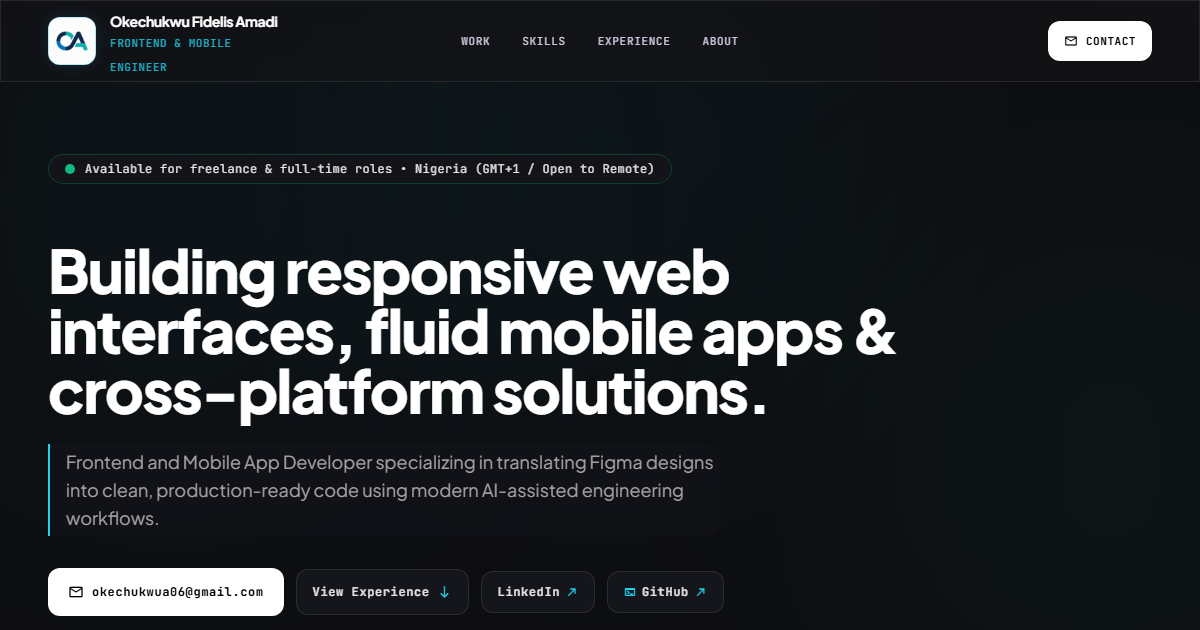
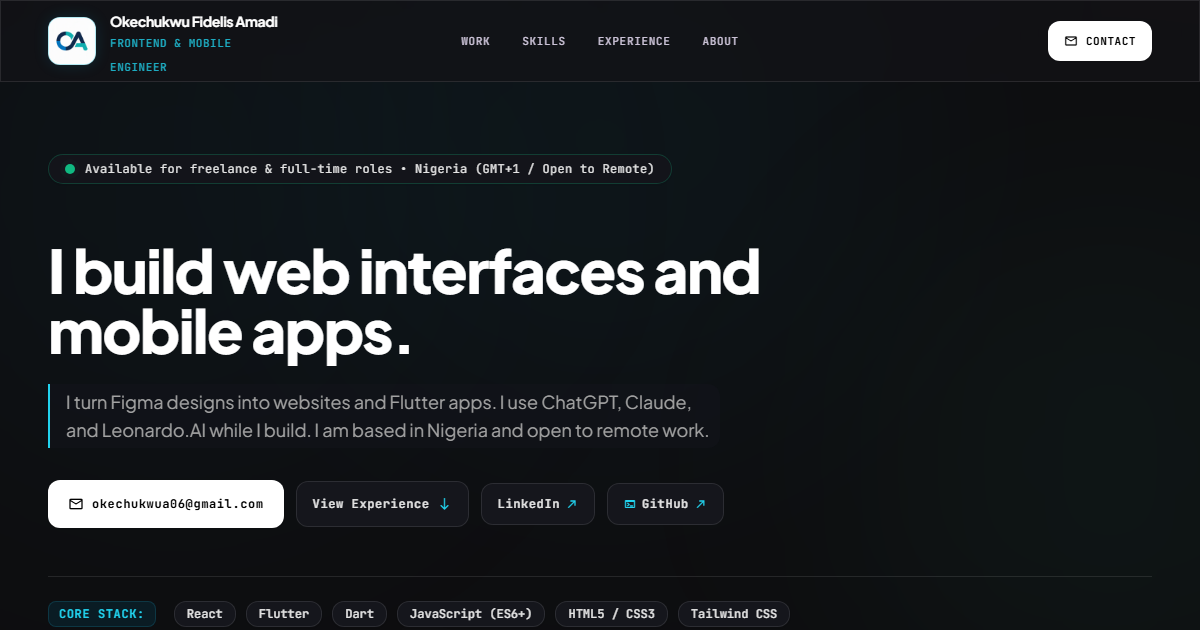
Rewrite hero and about copy in plain first person
The old hero and bio were buzzword-heavy marketing speak that said
little; the new copy states what I do in short sentences, mentions
the Agricultural Economics degree, and uses only facts already on
the site. og:image re-captured so it matches the new headline.

🤖 Generated with Codebuff

Changed region(s): [[0.0308, 0.3921, 0.74, 0.6937], [0.0308, 0.7238, 0.5858, 0.8444], [0.0308, 0.8746, 0.6475, 0.9952]]

diff --git a/partials/about.html b/partials/about.html
@@ -29,10 +29,10 @@
 <div class="md:col-span-8 space-y-6">
 <div class="kinetic-card rounded-xl p-6 sm:p-7 space-y-4 text-xs md:text-sm text-neutral-300 leading-relaxed font-body">
 <p>
-          I am a dedicated Frontend and Mobile App Developer based in Nigeria. My focus is delivering polished digital interfaces that cleanly match client specifications and functional design prototypes.
+          I am Okechukwu Fidelis Amadi, a frontend and mobile app developer based in Nigeria. I build websites and mobile apps from Figma designs. I hold a B.Agric in Agricultural Economics from Michael Okpara University of Agriculture Umudike.
         </p>
 <p>
-          With strong foundations in React, JavaScript, Flutter, and Dart, I emphasize clean code, accessibility, and fluid layouts. I leverage modern AI tools like Claude and ChatGPT to accelerate prototyping and code optimization, alongside Leonardo.AI to generate custom visual assets for web layouts without relying on generic stock photography.
+          I work mainly with React, JavaScript, Flutter, and Dart. I care about clean code, accessibility, and layouts that work on any screen. I use ChatGPT and Claude to speed up prototyping and documentation, and Leonardo.AI to make images for my pages instead of relying on stock photos.
         </p>
 </div>
 <div class="space-y-3.5">

diff --git a/partials/hero.html b/partials/hero.html
@@ -9,10 +9,10 @@
 </div>
 <div class="flex flex-wrap items-center gap-2.5 mb-6"></div>
 <h1 class="text-3xl sm:text-5xl md:text-6xl font-extrabold tracking-tight text-white leading-[1.12] max-w-4xl font-display">
-      Building responsive web interfaces, fluid mobile apps &amp; cross-platform solutions.
+      I build web interfaces and mobile apps.
     </h1>
 <p class="mt-6 max-w-2xl text-base md:text-lg text-neutral-400 leading-relaxed font-body font-normal border-l-2 border-cyan-400 pl-4 py-1 bg-[#13141a]/60 rounded-r-lg">
-      Frontend and Mobile App Developer specializing in translating Figma designs into clean, production-ready code using modern AI-assisted engineering workflows.
+      I turn Figma designs into websites and Flutter apps. I use ChatGPT, Claude, and Leonardo.AI while I build. I am based in Nigeria and open to remote work.
     </p>
 <div class="mt-8 flex flex-wrap items-center gap-3 font-mono text-xs">
 <a class="kinetic-btn inline-flex items-center gap-2 px-5 py-3 rounded-lg bg-white hover:bg-neutral-200 text-black font-bold tracking-wider shadow-sm" href="mailto:okechukwua06@gmail.com">
